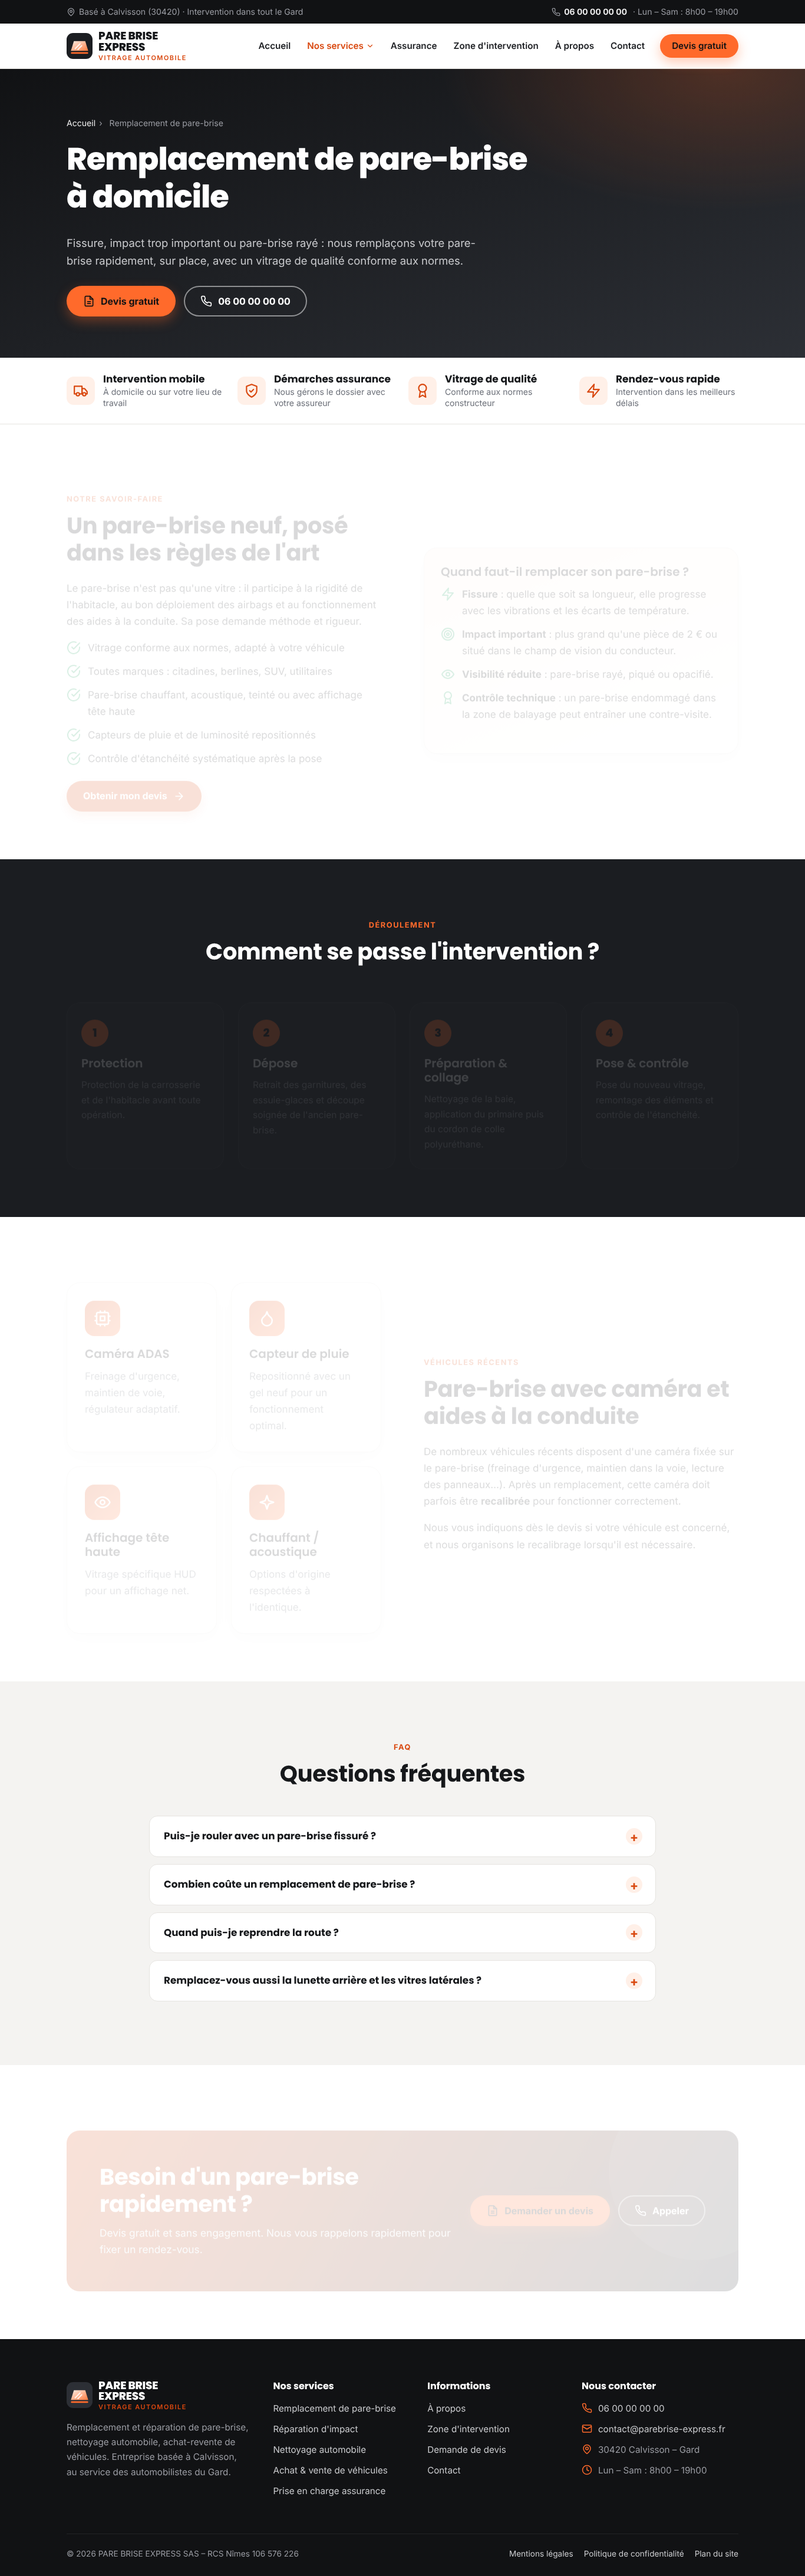
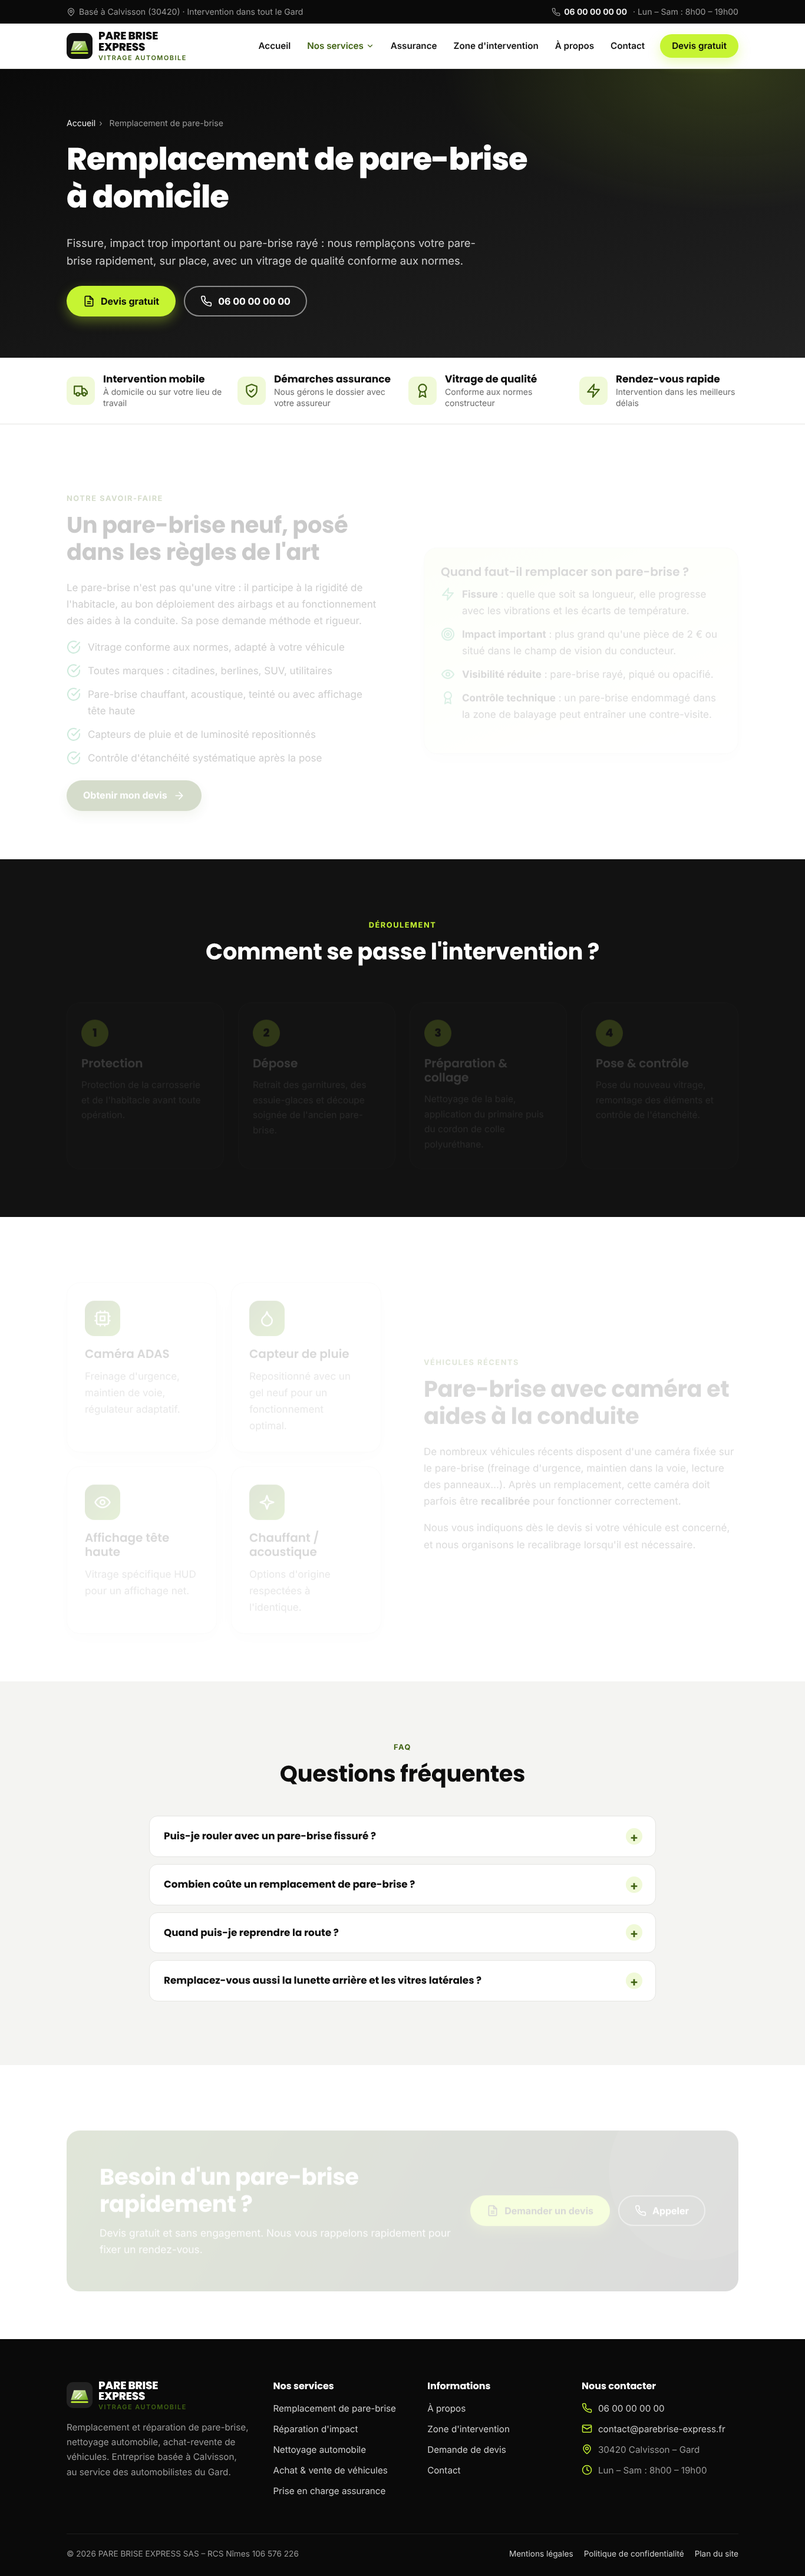
Appliquer la palette Noir & Lime à tout le site
Claude-Session: https://claude.ai/code/session_01UgdzWtsvjubcNTfK2R8s6y

diff --git a/nettoyage-automobile.html b/nettoyage-automobile.html
@@ -1,5 +1,5 @@
 <!DOCTYPE html>
-<html lang="fr" data-palette="graphite">
+<html lang="fr" data-palette="lime">
 <head>
 <meta charset="utf-8">
 <meta name="viewport" content="width=device-width, initial-scale=1">
@@ -10,7 +10,7 @@
 <meta property="og:title" content="Nettoyage automobile intérieur & extérieur – Gard | PARE BRISE EXPRESS">
 <meta property="og:description" content="Nettoyage automobile à Calvisson et dans le Gard : nettoyage intérieur, lavage extérieur à la main, shampoing des sièges, rénovation complète. Devis gratuit.">
 <meta property="og:locale" content="fr_FR">
-<meta name="theme-color" content="#0b2545">
+<meta name="theme-color" content="#121212">
 <link rel="icon" href="assets/img/favicon.svg" type="image/svg+xml">
 <link rel="preconnect" href="https://fonts.googleapis.com">
 <link rel="preconnect" href="https://fonts.gstatic.com" crossorigin>

diff --git a/index.html b/index.html
@@ -1,5 +1,5 @@
 <!DOCTYPE html>
-<html lang="fr" data-palette="graphite">
+<html lang="fr" data-palette="lime">
 <head>
 <meta charset="utf-8">
 <meta name="viewport" content="width=device-width, initial-scale=1">
@@ -10,7 +10,7 @@
 <meta property="og:title" content="Remplacement pare-brise Calvisson, Nîmes & Gard | PARE BRISE EXPRESS">
 <meta property="og:description" content="PARE BRISE EXPRESS : remplacement et réparation de pare-brise à domicile à Calvisson, Nîmes et dans le Gard. Démarches assurance prises en charge. Devis gratuit.">
 <meta property="og:locale" content="fr_FR">
-<meta name="theme-color" content="#0b2545">
+<meta name="theme-color" content="#121212">
 <link rel="icon" href="assets/img/favicon.svg" type="image/svg+xml">
 <link rel="preconnect" href="https://fonts.googleapis.com">
 <link rel="preconnect" href="https://fonts.gstatic.com" crossorigin>

diff --git a/remplacement-pare-brise.html b/remplacement-pare-brise.html
@@ -1,5 +1,5 @@
 <!DOCTYPE html>
-<html lang="fr" data-palette="graphite">
+<html lang="fr" data-palette="lime">
 <head>
 <meta charset="utf-8">
 <meta name="viewport" content="width=device-width, initial-scale=1">
@@ -10,7 +10,7 @@
 <meta property="og:title" content="Remplacement de pare-brise à domicile – Gard | PARE BRISE EXPRESS">
 <meta property="og:description" content="Remplacement de pare-brise toutes marques à domicile à Calvisson, Nîmes, Sommières et dans le Gard. Pare-brise avec caméra et capteurs. Prise en charge assurance.">
 <meta property="og:locale" content="fr_FR">
-<meta name="theme-color" content="#0b2545">
+<meta name="theme-color" content="#121212">
 <link rel="icon" href="assets/img/favicon.svg" type="image/svg+xml">
 <link rel="preconnect" href="https://fonts.googleapis.com">
 <link rel="preconnect" href="https://fonts.gstatic.com" crossorigin>

diff --git a/achat-vente-vehicules.html b/achat-vente-vehicules.html
@@ -1,5 +1,5 @@
 <!DOCTYPE html>
-<html lang="fr" data-palette="graphite">
+<html lang="fr" data-palette="lime">
 <head>
 <meta charset="utf-8">
 <meta name="viewport" content="width=device-width, initial-scale=1">
@@ -10,7 +10,7 @@
 <meta property="og:title" content="Achat, revente et mise à disposition de véhicules – Gard | PARE BRISE EXPRESS">
 <meta property="og:description" content="PARE BRISE EXPRESS rachète votre véhicule, propose des véhicules d'occasion et la mise à disposition de véhicules à Calvisson et dans le Gard.">
 <meta property="og:locale" content="fr_FR">
-<meta name="theme-color" content="#0b2545">
+<meta name="theme-color" content="#121212">
 <link rel="icon" href="assets/img/favicon.svg" type="image/svg+xml">
 <link rel="preconnect" href="https://fonts.googleapis.com">
 <link rel="preconnect" href="https://fonts.gstatic.com" crossorigin>

diff --git a/assurance.html b/assurance.html
@@ -1,5 +1,5 @@
 <!DOCTYPE html>
-<html lang="fr" data-palette="graphite">
+<html lang="fr" data-palette="lime">
 <head>
 <meta charset="utf-8">
 <meta name="viewport" content="width=device-width, initial-scale=1">
@@ -10,7 +10,7 @@
 <meta property="og:title" content="Prise en charge assurance bris de glace | PARE BRISE EXPRESS">
 <meta property="og:description" content="Garantie bris de glace : PARE BRISE EXPRESS gère vos démarches avec toutes les assurances pour le remplacement ou la réparation de votre pare-brise dans le Gard.">
 <meta property="og:locale" content="fr_FR">
-<meta name="theme-color" content="#0b2545">
+<meta name="theme-color" content="#121212">
 <link rel="icon" href="assets/img/favicon.svg" type="image/svg+xml">
 <link rel="preconnect" href="https://fonts.googleapis.com">
 <link rel="preconnect" href="https://fonts.gstatic.com" crossorigin>

diff --git a/zone-intervention.html b/zone-intervention.html
@@ -1,5 +1,5 @@
 <!DOCTYPE html>
-<html lang="fr" data-palette="graphite">
+<html lang="fr" data-palette="lime">
 <head>
 <meta charset="utf-8">
 <meta name="viewport" content="width=device-width, initial-scale=1">
@@ -10,7 +10,7 @@
 <meta property="og:title" content="Zone d'intervention pare-brise : Calvisson, Nîmes, Sommières, Lunel | PARE BRISE EXPRESS">
 <meta property="og:description" content="Remplacement de pare-brise à domicile à Calvisson, Nîmes, Sommières, Vergèze, Lunel, Vauvert et communes alentours dans le Gard.">
 <meta property="og:locale" content="fr_FR">
-<meta name="theme-color" content="#0b2545">
+<meta name="theme-color" content="#121212">
 <link rel="icon" href="assets/img/favicon.svg" type="image/svg+xml">
 <link rel="preconnect" href="https://fonts.googleapis.com">
 <link rel="preconnect" href="https://fonts.gstatic.com" crossorigin>

diff --git a/reparation-impact.html b/reparation-impact.html
@@ -1,5 +1,5 @@
 <!DOCTYPE html>
-<html lang="fr" data-palette="graphite">
+<html lang="fr" data-palette="lime">
 <head>
 <meta charset="utf-8">
 <meta name="viewport" content="width=device-width, initial-scale=1">
@@ -10,7 +10,7 @@
 <meta property="og:title" content="Réparation d'impact de pare-brise – Calvisson, Nîmes | PARE BRISE EXPRESS">
 <meta property="og:description" content="Réparation d'impact de pare-brise rapide à Calvisson, Nîmes et dans le Gard. Évitez la fissure et le remplacement complet. Devis gratuit.">
 <meta property="og:locale" content="fr_FR">
-<meta name="theme-color" content="#0b2545">
+<meta name="theme-color" content="#121212">
 <link rel="icon" href="assets/img/favicon.svg" type="image/svg+xml">
 <link rel="preconnect" href="https://fonts.googleapis.com">
 <link rel="preconnect" href="https://fonts.gstatic.com" crossorigin>

diff --git a/devis.html b/devis.html
@@ -1,5 +1,5 @@
 <!DOCTYPE html>
-<html lang="fr" data-palette="graphite">
+<html lang="fr" data-palette="lime">
 <head>
 <meta charset="utf-8">
 <meta name="viewport" content="width=device-width, initial-scale=1">
@@ -10,7 +10,7 @@
 <meta property="og:title" content="Devis gratuit pare-brise – PARE BRISE EXPRESS">
 <meta property="og:description" content="Demandez votre devis gratuit pour le remplacement ou la réparation de votre pare-brise, un nettoyage automobile ou l'achat-vente d'un véhicule dans le Gard.">
 <meta property="og:locale" content="fr_FR">
-<meta name="theme-color" content="#0b2545">
+<meta name="theme-color" content="#121212">
 <link rel="icon" href="assets/img/favicon.svg" type="image/svg+xml">
 <link rel="preconnect" href="https://fonts.googleapis.com">
 <link rel="preconnect" href="https://fonts.gstatic.com" crossorigin>

diff --git a/a-propos.html b/a-propos.html
@@ -1,5 +1,5 @@
 <!DOCTYPE html>
-<html lang="fr" data-palette="graphite">
+<html lang="fr" data-palette="lime">
 <head>
 <meta charset="utf-8">
 <meta name="viewport" content="width=device-width, initial-scale=1">
@@ -10,7 +10,7 @@
 <meta property="og:title" content="À propos de PARE BRISE EXPRESS – Calvisson (Gard)">
 <meta property="og:description" content="Découvrez PARE BRISE EXPRESS, entreprise de remplacement de pare-brise, nettoyage automobile et achat-revente de véhicules basée à Calvisson (30).">
 <meta property="og:locale" content="fr_FR">
-<meta name="theme-color" content="#0b2545">
+<meta name="theme-color" content="#121212">
 <link rel="icon" href="assets/img/favicon.svg" type="image/svg+xml">
 <link rel="preconnect" href="https://fonts.googleapis.com">
 <link rel="preconnect" href="https://fonts.gstatic.com" crossorigin>

diff --git a/contact.html b/contact.html
@@ -1,5 +1,5 @@
 <!DOCTYPE html>
-<html lang="fr" data-palette="graphite">
+<html lang="fr" data-palette="lime">
 <head>
 <meta charset="utf-8">
 <meta name="viewport" content="width=device-width, initial-scale=1">
@@ -10,7 +10,7 @@
 <meta property="og:title" content="Contact – PARE BRISE EXPRESS Calvisson">
 <meta property="og:description" content="Contactez PARE BRISE EXPRESS à Calvisson : téléphone, WhatsApp, e-mail. Remplacement de pare-brise à domicile dans le Gard.">
 <meta property="og:locale" content="fr_FR">
-<meta name="theme-color" content="#0b2545">
+<meta name="theme-color" content="#121212">
 <link rel="icon" href="assets/img/favicon.svg" type="image/svg+xml">
 <link rel="preconnect" href="https://fonts.googleapis.com">
 <link rel="preconnect" href="https://fonts.gstatic.com" crossorigin>

diff --git a/confidentialite.html b/confidentialite.html
@@ -1,5 +1,5 @@
 <!DOCTYPE html>
-<html lang="fr" data-palette="graphite">
+<html lang="fr" data-palette="lime">
 <head>
 <meta charset="utf-8">
 <meta name="viewport" content="width=device-width, initial-scale=1">
@@ -10,7 +10,7 @@
 <meta property="og:title" content="Politique de confidentialité – PARE BRISE EXPRESS">
 <meta property="og:description" content="Politique de confidentialité et protection des données personnelles du site PARE BRISE EXPRESS.">
 <meta property="og:locale" content="fr_FR">
-<meta name="theme-color" content="#0b2545">
+<meta name="theme-color" content="#121212">
 <link rel="icon" href="assets/img/favicon.svg" type="image/svg+xml">
 <link rel="preconnect" href="https://fonts.googleapis.com">
 <link rel="preconnect" href="https://fonts.gstatic.com" crossorigin>

diff --git a/mentions-legales.html b/mentions-legales.html
@@ -1,5 +1,5 @@
 <!DOCTYPE html>
-<html lang="fr" data-palette="graphite">
+<html lang="fr" data-palette="lime">
 <head>
 <meta charset="utf-8">
 <meta name="viewport" content="width=device-width, initial-scale=1">
@@ -10,7 +10,7 @@
 <meta property="og:title" content="Mentions légales – PARE BRISE EXPRESS">
 <meta property="og:description" content="Mentions légales du site PARE BRISE EXPRESS, SAS au capital de 1 000 €, RCS Nîmes 106 576 226, Calvisson.">
 <meta property="og:locale" content="fr_FR">
-<meta name="theme-color" content="#0b2545">
+<meta name="theme-color" content="#121212">
 <link rel="icon" href="assets/img/favicon.svg" type="image/svg+xml">
 <link rel="preconnect" href="https://fonts.googleapis.com">
 <link rel="preconnect" href="https://fonts.gstatic.com" crossorigin>
